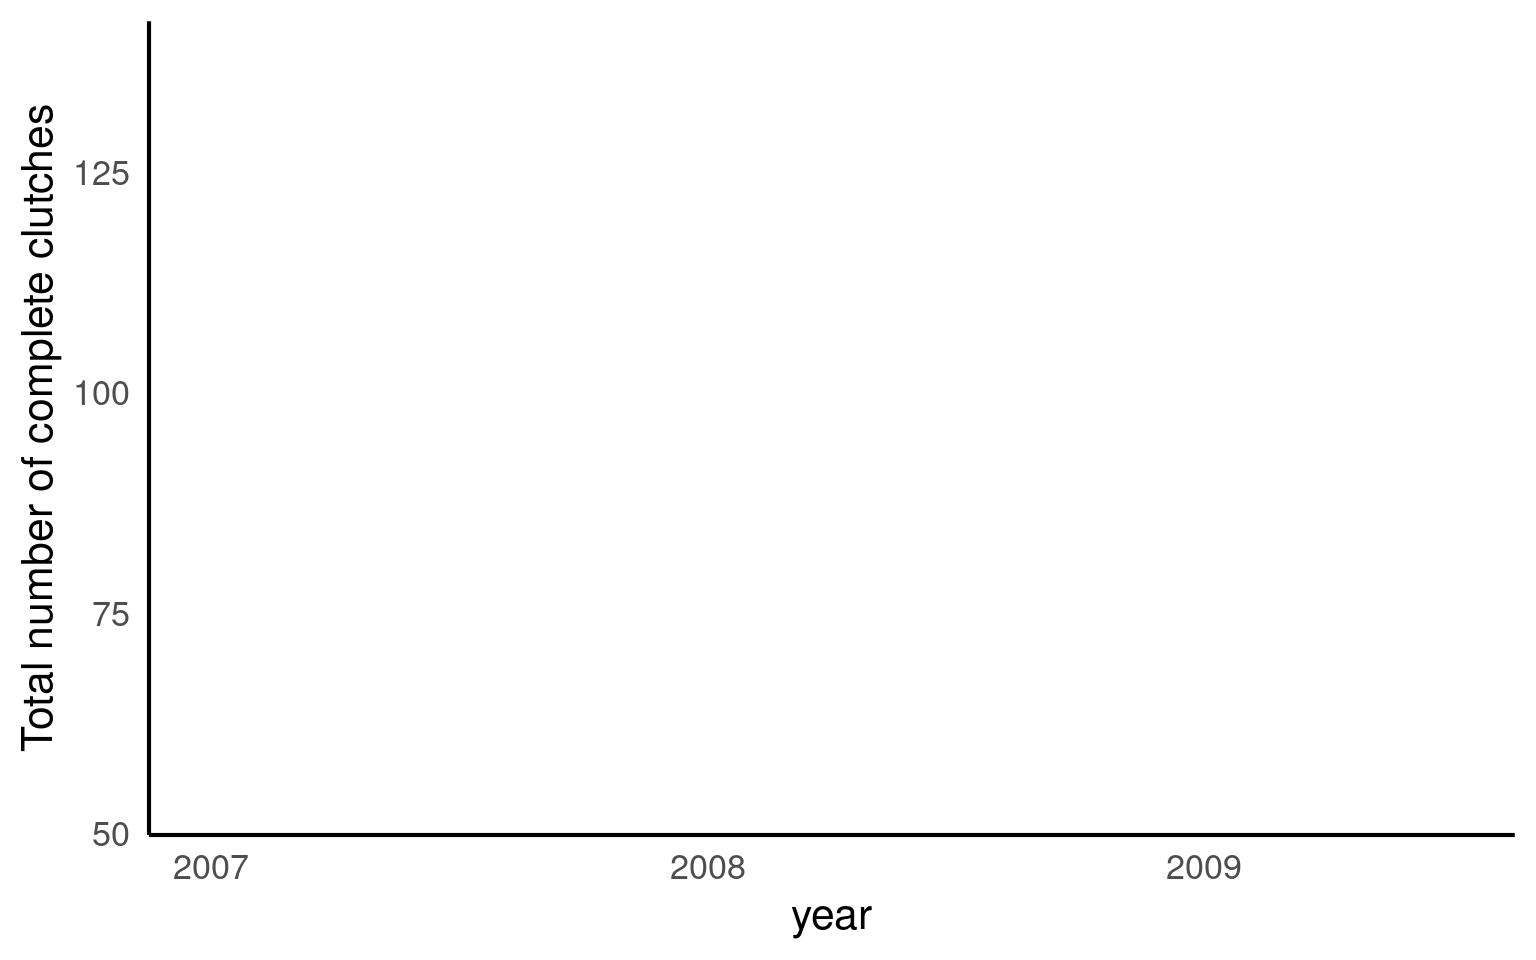
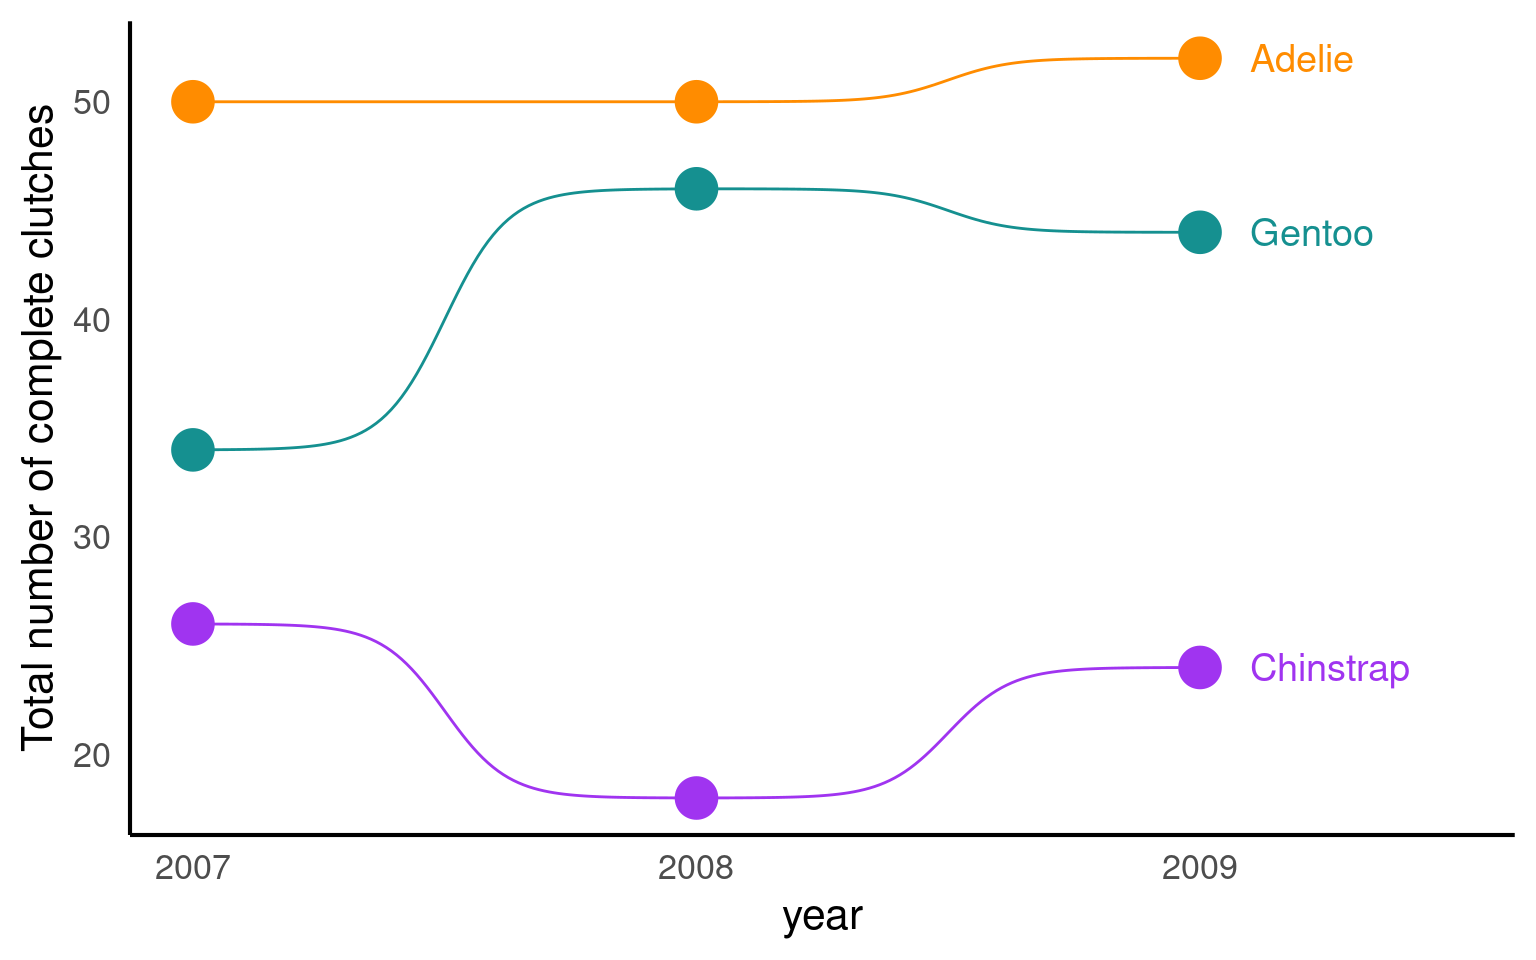
Update ggplots

diff --git a/docs/advanced_ggplot.html b/docs/advanced_ggplot.html
@@ -605,29 +605,26 @@ Use any of your own data
 <div class="sourceCode cell-code" id="cb11"><pre class="sourceCode numberSource r number-lines code-with-copy"><code class="sourceCode r"><span id="cb11-1"><a href="#cb11-1"></a><span class="fu">library</span>(ggbump)</span>
 <span id="cb11-2"><a href="#cb11-2"></a></span>
 <span id="cb11-3"><a href="#cb11-3"></a>penguin_summary <span class="ot">&lt;-</span> penguins <span class="sc">|&gt;</span> </span>
-<span id="cb11-4"><a href="#cb11-4"></a>  <span class="fu">mutate</span>(<span class="at">date_egg =</span> <span class="fu">dmy</span>(date_egg)) <span class="sc">|&gt;</span> </span>
-<span id="cb11-5"><a href="#cb11-5"></a>  <span class="fu">filter</span>(clutch_completion <span class="sc">==</span> <span class="st">"Yes"</span>) <span class="sc">|&gt;</span> </span>
-<span id="cb11-6"><a href="#cb11-6"></a>  <span class="fu">mutate</span>(<span class="at">year =</span> <span class="fu">year</span>(date_egg)) <span class="sc">|&gt;</span> </span>
-<span id="cb11-7"><a href="#cb11-7"></a>  <span class="fu">group_by</span>(species, year) <span class="sc">|&gt;</span> </span>
-<span id="cb11-8"><a href="#cb11-8"></a>  <span class="fu">summarise</span>(<span class="at">n =</span> <span class="fu">n</span>())</span>
-<span id="cb11-9"><a href="#cb11-9"></a></span>
-<span id="cb11-10"><a href="#cb11-10"></a>penguin_summary <span class="sc">|&gt;</span></span>
-<span id="cb11-11"><a href="#cb11-11"></a>  <span class="fu">ggplot</span>(<span class="fu">aes</span>(<span class="at">x =</span> year, </span>
-<span id="cb11-12"><a href="#cb11-12"></a>             <span class="at">y =</span> n,</span>
-<span id="cb11-13"><a href="#cb11-13"></a>             <span class="at">colour =</span> species))<span class="sc">+</span></span>
-<span id="cb11-14"><a href="#cb11-14"></a>  <span class="fu">geom_point</span>(<span class="at">size =</span> <span class="dv">7</span>)<span class="sc">+</span></span>
-<span id="cb11-15"><a href="#cb11-15"></a>  <span class="fu">geom_bump</span>()<span class="sc">+</span></span>
-<span id="cb11-16"><a href="#cb11-16"></a>  <span class="fu">geom_text</span>(<span class="at">data =</span> penguin_summary <span class="sc">|&gt;</span> <span class="fu">filter</span>(year <span class="sc">==</span> <span class="fu">max</span>(year)),</span>
-<span id="cb11-17"><a href="#cb11-17"></a>                                             <span class="fu">aes</span>(<span class="at">x =</span> year <span class="sc">+</span> <span class="fl">0.1</span>,</span>
-<span id="cb11-18"><a href="#cb11-18"></a>                                                 <span class="at">label =</span> species,</span>
-<span id="cb11-19"><a href="#cb11-19"></a>                                                  <span class="at">hjust =</span> <span class="dv">0</span>),</span>
-<span id="cb11-20"><a href="#cb11-20"></a>            <span class="at">size =</span> <span class="dv">5</span>)<span class="sc">+</span></span>
-<span id="cb11-21"><a href="#cb11-21"></a>  <span class="fu">scale_x_continuous</span>(<span class="at">limits =</span> <span class="fu">c</span>(<span class="dv">2007</span>, <span class="fl">2009.5</span>),</span>
-<span id="cb11-22"><a href="#cb11-22"></a>                     <span class="at">breaks =</span> (<span class="dv">2007</span><span class="sc">:</span><span class="dv">2009</span>))<span class="sc">+</span></span>
-<span id="cb11-23"><a href="#cb11-23"></a>  <span class="fu">labs</span>(<span class="at">y =</span> <span class="st">"Total number of complete clutches"</span>)<span class="sc">+</span></span>
-<span id="cb11-24"><a href="#cb11-24"></a>  <span class="fu">scale_fill_manual</span>(<span class="at">values =</span> pal) <span class="sc">+</span></span>
-<span id="cb11-25"><a href="#cb11-25"></a>  <span class="fu">scale_colour_manual</span>(<span class="at">values =</span> pal)<span class="sc">+</span></span>
-<span id="cb11-26"><a href="#cb11-26"></a>  <span class="fu">theme</span>(<span class="at">legend.position =</span> <span class="st">"none"</span>)</span></code><button title="Copy to Clipboard" class="code-copy-button"><i class="bi"></i></button></pre></div>
+<span id="cb11-4"><a href="#cb11-4"></a>  <span class="fu">group_by</span>(species, year) <span class="sc">|&gt;</span> </span>
+<span id="cb11-5"><a href="#cb11-5"></a>  <span class="fu">summarise</span>(<span class="at">n =</span> <span class="fu">n</span>())</span>
+<span id="cb11-6"><a href="#cb11-6"></a></span>
+<span id="cb11-7"><a href="#cb11-7"></a>penguin_summary <span class="sc">|&gt;</span></span>
+<span id="cb11-8"><a href="#cb11-8"></a>  <span class="fu">ggplot</span>(<span class="fu">aes</span>(<span class="at">x =</span> year, </span>
+<span id="cb11-9"><a href="#cb11-9"></a>             <span class="at">y =</span> n,</span>
+<span id="cb11-10"><a href="#cb11-10"></a>             <span class="at">colour =</span> species))<span class="sc">+</span></span>
+<span id="cb11-11"><a href="#cb11-11"></a>  <span class="fu">geom_point</span>(<span class="at">size =</span> <span class="dv">7</span>)<span class="sc">+</span></span>
+<span id="cb11-12"><a href="#cb11-12"></a>  <span class="fu">geom_bump</span>()<span class="sc">+</span></span>
+<span id="cb11-13"><a href="#cb11-13"></a>  <span class="fu">geom_text</span>(<span class="at">data =</span> penguin_summary <span class="sc">|&gt;</span> <span class="fu">filter</span>(year <span class="sc">==</span> <span class="fu">max</span>(year)),</span>
+<span id="cb11-14"><a href="#cb11-14"></a>                                             <span class="fu">aes</span>(<span class="at">x =</span> year <span class="sc">+</span> <span class="fl">0.1</span>,</span>
+<span id="cb11-15"><a href="#cb11-15"></a>                                                 <span class="at">label =</span> species,</span>
+<span id="cb11-16"><a href="#cb11-16"></a>                                                  <span class="at">hjust =</span> <span class="dv">0</span>),</span>
+<span id="cb11-17"><a href="#cb11-17"></a>            <span class="at">size =</span> <span class="dv">5</span>)<span class="sc">+</span></span>
+<span id="cb11-18"><a href="#cb11-18"></a>  <span class="fu">scale_x_continuous</span>(<span class="at">limits =</span> <span class="fu">c</span>(<span class="dv">2007</span>, <span class="fl">2009.5</span>),</span>
+<span id="cb11-19"><a href="#cb11-19"></a>                     <span class="at">breaks =</span> (<span class="dv">2007</span><span class="sc">:</span><span class="dv">2009</span>))<span class="sc">+</span></span>
+<span id="cb11-20"><a href="#cb11-20"></a>  <span class="fu">labs</span>(<span class="at">y =</span> <span class="st">"Total number of complete clutches"</span>)<span class="sc">+</span></span>
+<span id="cb11-21"><a href="#cb11-21"></a>  <span class="fu">scale_fill_manual</span>(<span class="at">values =</span> pal) <span class="sc">+</span></span>
+<span id="cb11-22"><a href="#cb11-22"></a>  <span class="fu">scale_colour_manual</span>(<span class="at">values =</span> pal)<span class="sc">+</span></span>
+<span id="cb11-23"><a href="#cb11-23"></a>  <span class="fu">theme</span>(<span class="at">legend.position =</span> <span class="st">"none"</span>)</span></code><button title="Copy to Clipboard" class="code-copy-button"><i class="bi"></i></button></pre></div>
 <div class="cell-output-display">
 <div class="quarto-figure quarto-figure-center">
 <figure class="figure"><p><img src="advanced_ggplot_files/figure-html/unnamed-chunk-13-1.png" class="img-fluid quarto-figure quarto-figure-center figure-img" style="width:100.0%"></p>
